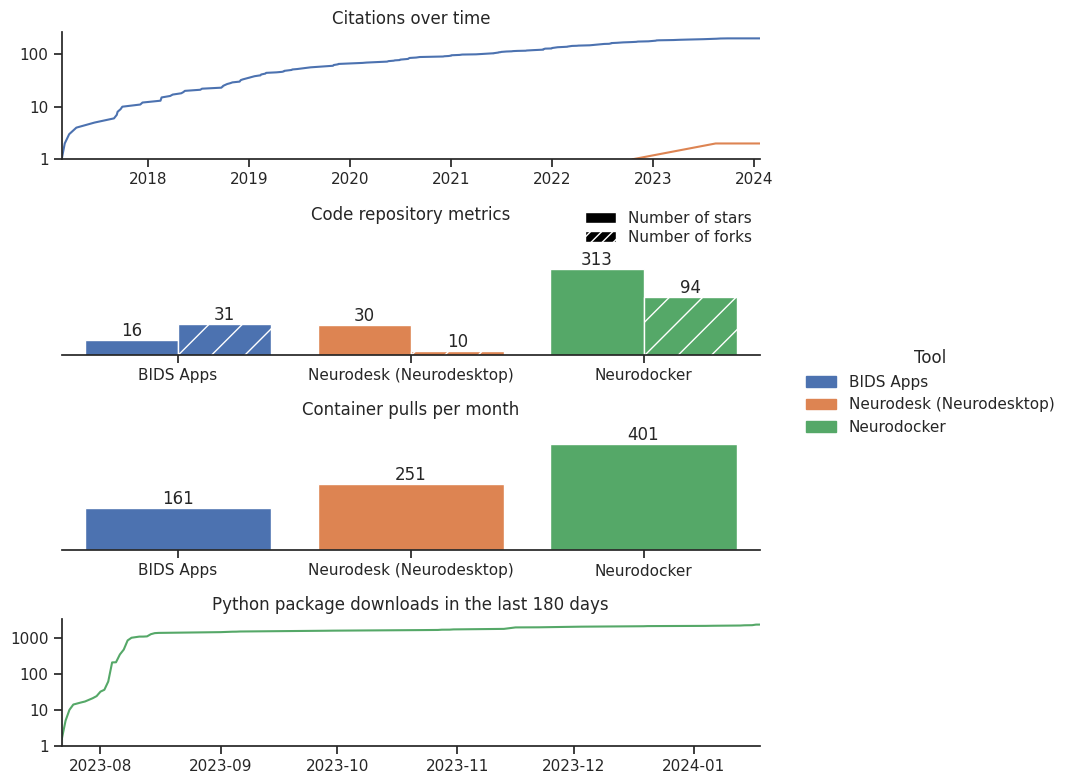
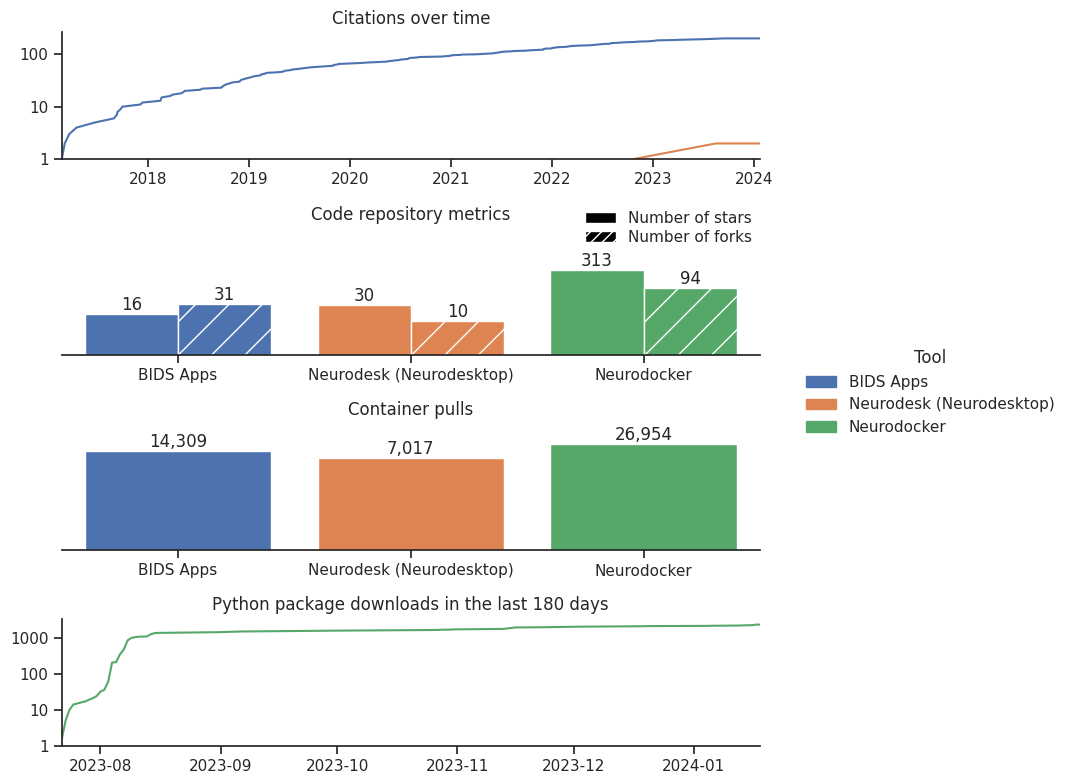
do not standardize container pull counts

diff --git a/code/generate_figures.py b/code/generate_figures.py
@@ -131,7 +131,7 @@ def plot_repo(df_metrics: pd.DataFrame, ax=None, hatches=None, palette=None) -> 
         hue=col_metric,
         ax=ax,
         log_scale=True,
-        y_max_factor=1.3,
+        y_max_factor=1.5,
     )
 
     # set bar colour and hatch style
@@ -166,12 +166,13 @@ def plot_containers_pulls(df_metrics: pd.DataFrame, ax=None, palette=None) -> pl
     ax = plot_bar(
         data=df_metrics,
         x=COL_NAME,
-        y=generate_col_standardized(COL_CONTAINER_PULLS),
+        y=COL_CONTAINER_PULLS,
         ax=ax,
         hue=COL_NAME,
         palette=palette,
+        log_scale=True,
     )
-    ax.set_title('Container pulls per month')
+    ax.set_title('Container pulls')
     return ax
 
 def plot_python_timeseries(df_metrics: pd.DataFrame, ax=None, palette=None) -> plt.Axes:

diff --git a/code/plotting.py b/code/plotting.py
@@ -42,15 +42,15 @@ def plot_bar(data, x, y, log_scale=False, y_max_factor=1.2, **kwargs):
     ax = sns.barplot(data=data, x=x, y=y, **kwargs)
     y_max = max(data[y])
     for container in ax.containers:
-        ax.bar_label(container, fmt='%.0f')
+        ax.bar_label(container, fmt='{:,.0f}')
     if log_scale:
         ax.set_yscale('log')
         ax.minorticks_off()
-        y_max = 10 ** (math.log10(y_max)*y_max_factor)
+        y_max = 10 ** (math.log10(y_max) * y_max_factor)
     else:
         y_max *= y_max_factor
 
-    ax.set_ylim(top=y_max)
+    ax.set_ylim(bottom=1, top=y_max)
     ax.set_yticks([])
     ax.set_xlabel('')
     ax.set_ylabel('')
